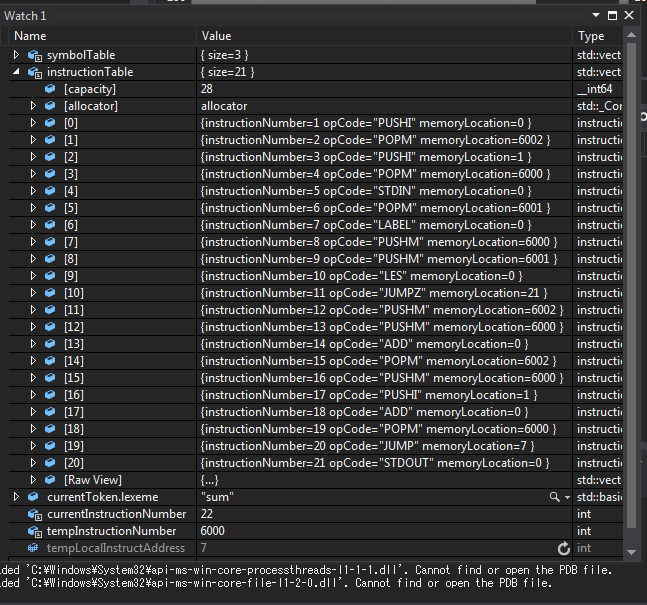
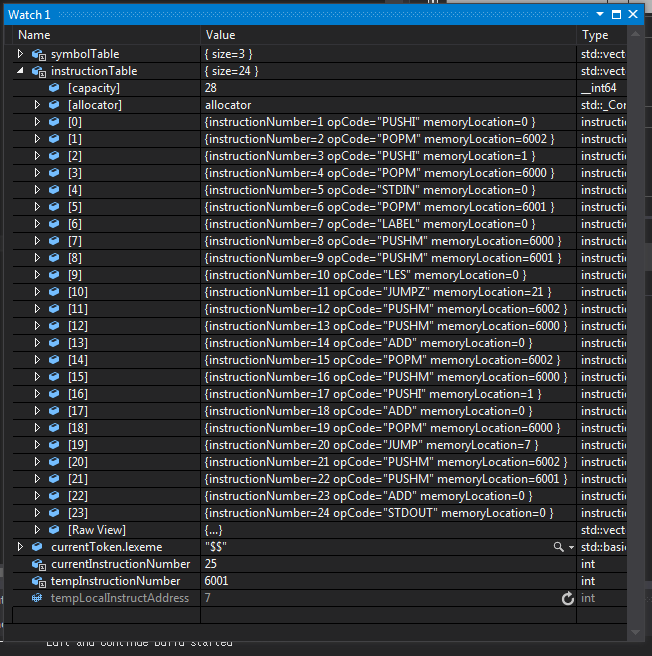
Changed the location of generate STDOUT. Updated Output Picture.

diff --git a/SAmain.cpp b/SAmain.cpp
@@ -102,10 +102,10 @@ int main()
 	ifget.open(infilepath);
 	oftrace.open(outfilepath);
 
-	//infilepath = "input.txt";
-	//outfilepath = "output.txt";
-	infilepath = "/home/joshua/Git/323-intermediateCodeGenerator/cmake-build-debug/input.txt";
-	outfilepath = "/home/joshua/Git/323-intermediateCodeGenerator/cmake-build-debug/output.txt";
+	infilepath = "input.txt";
+	outfilepath = "output.txt";
+	//infilepath = "/home/joshua/Git/323-intermediateCodeGenerator/cmake-build-debug/input.txt";
+	//outfilepath = "/home/joshua/Git/323-intermediateCodeGenerator/cmake-build-debug/output.txt";
 	ifget.open(infilepath);
 
 
@@ -627,7 +627,7 @@ void Write()
 	if (printSwitch)
 		oftrace << "\t<Write> ::= print (<Expressions>);\n";
 
-	generateInstruction("STDOUT", 0);
+	//generateInstruction("STDOUT", 0);
 	lexAdv();
 	if (currentToken.lexeme == "(")
 	{
@@ -637,7 +637,10 @@ void Write()
 		{
 			lexAdv();
 			if (currentToken.lexeme == ";")
+			{
+				generateInstruction("STDOUT", 0);
 				lexAdv();
+			}
 			else
 			{
 				oftrace << "\n<><><> Syntax Error, expecting ';' before '" << currentToken.lexeme << "' on line " << currentToken.lineNumber;
